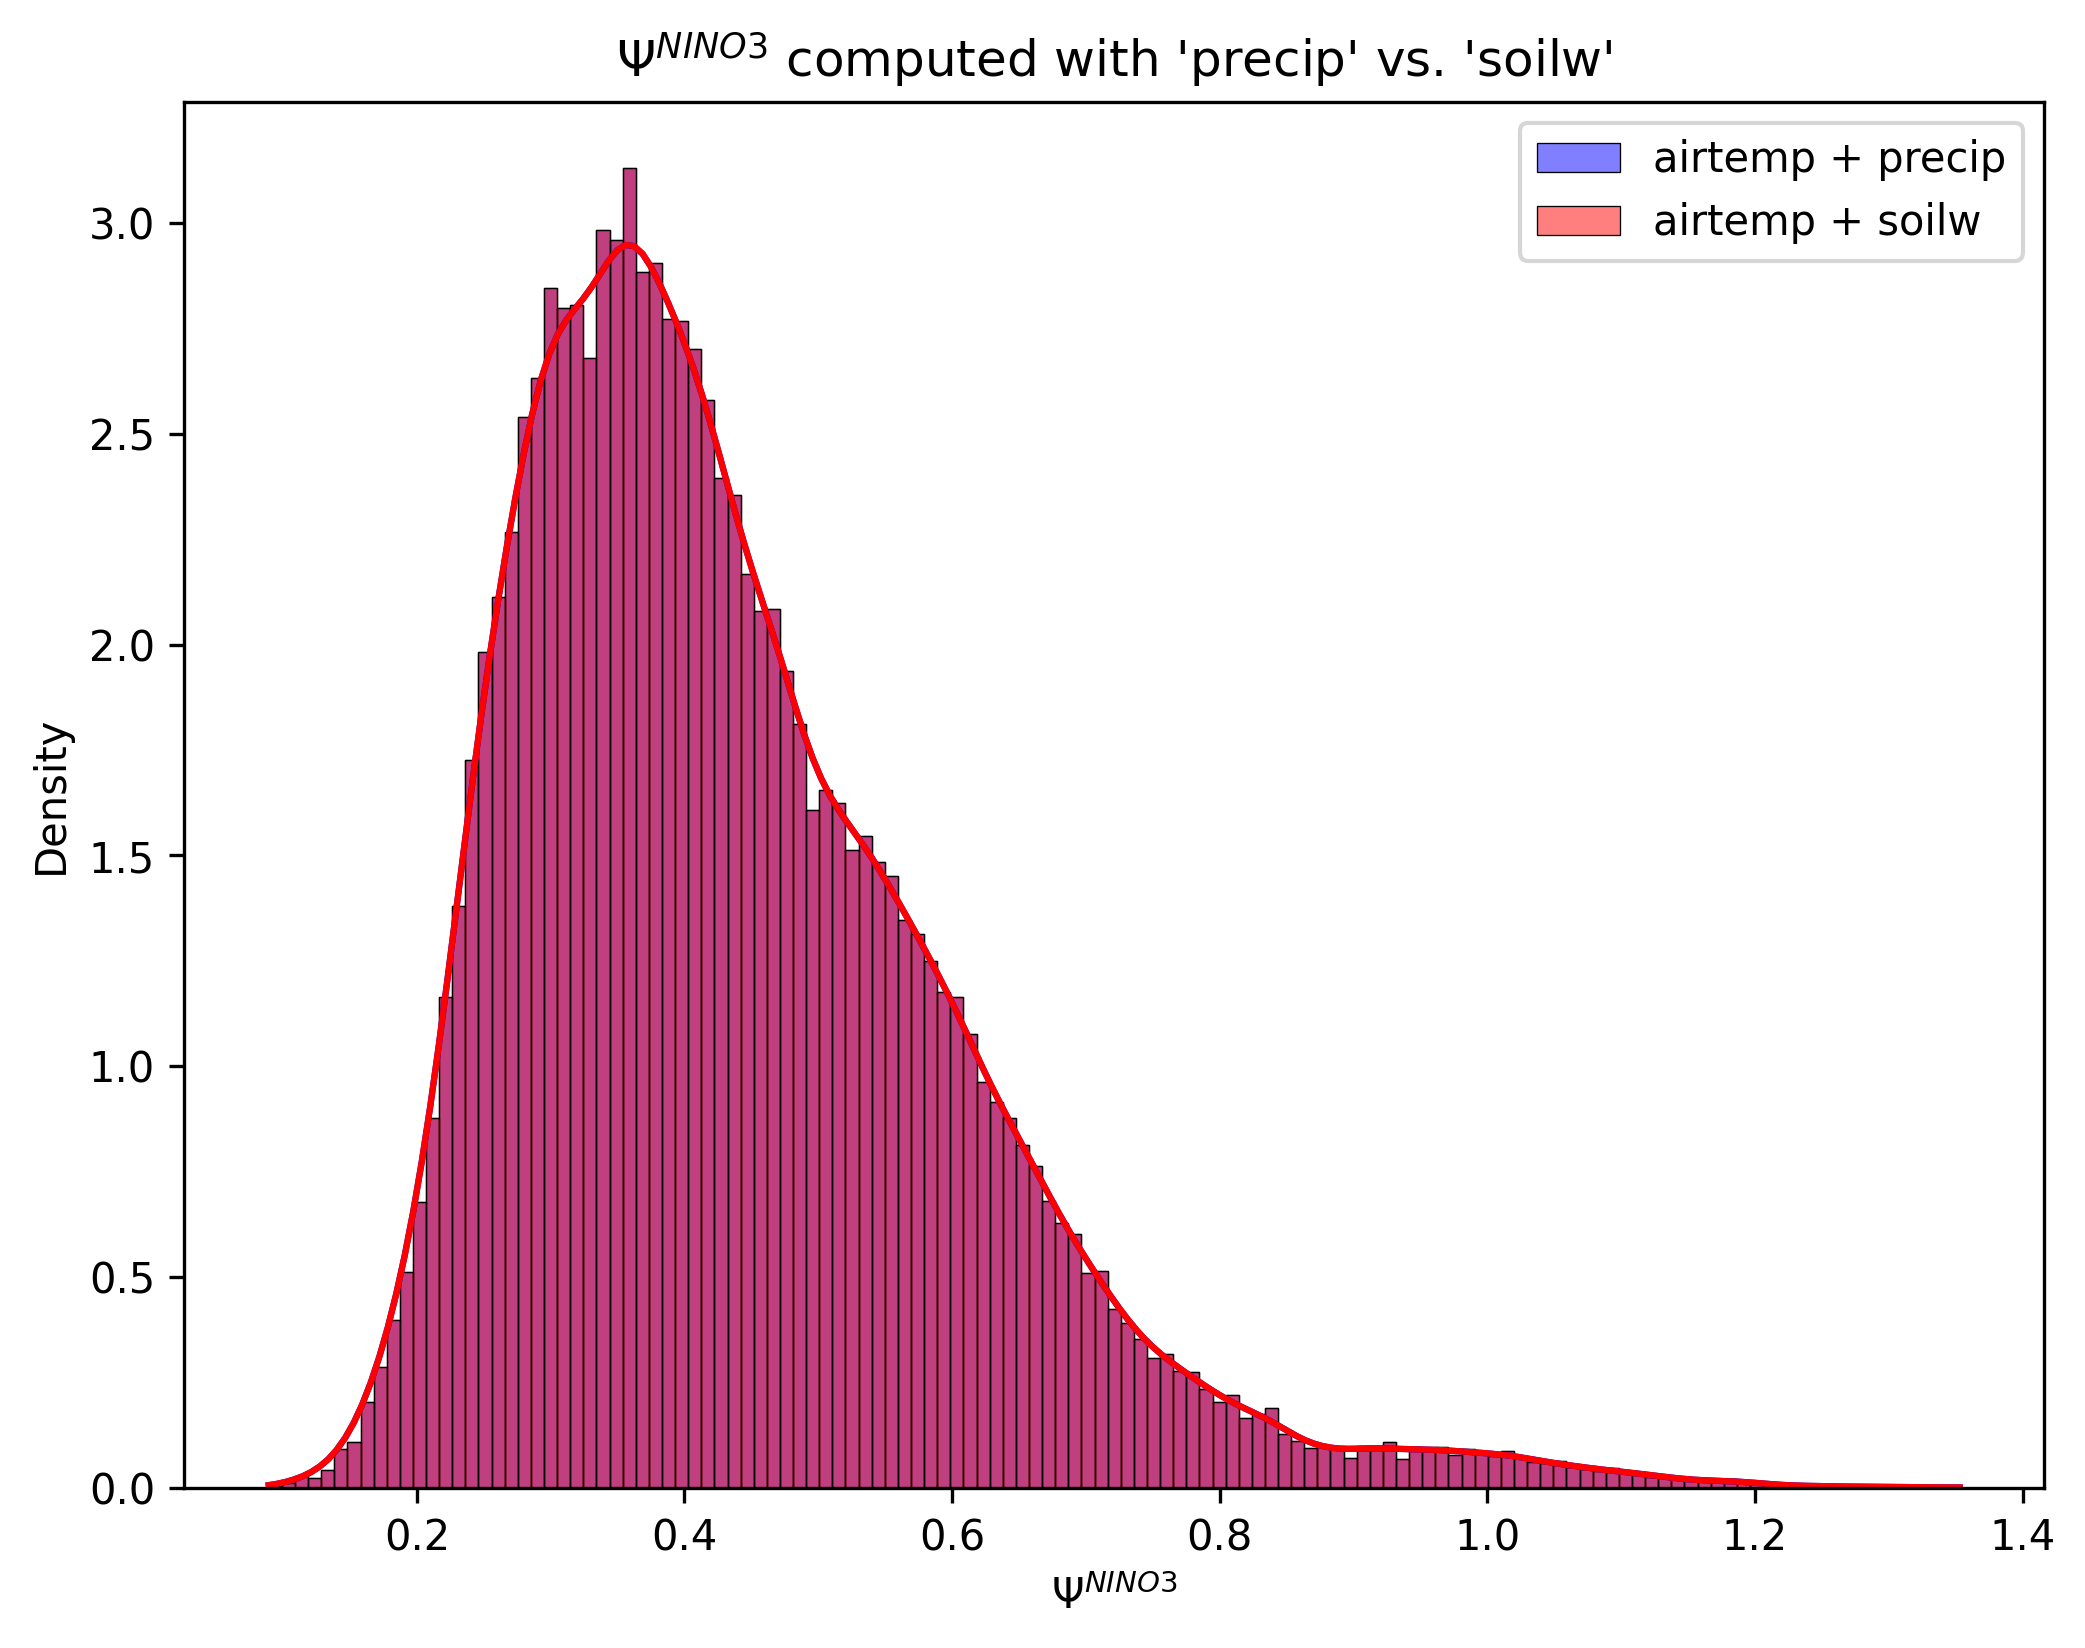
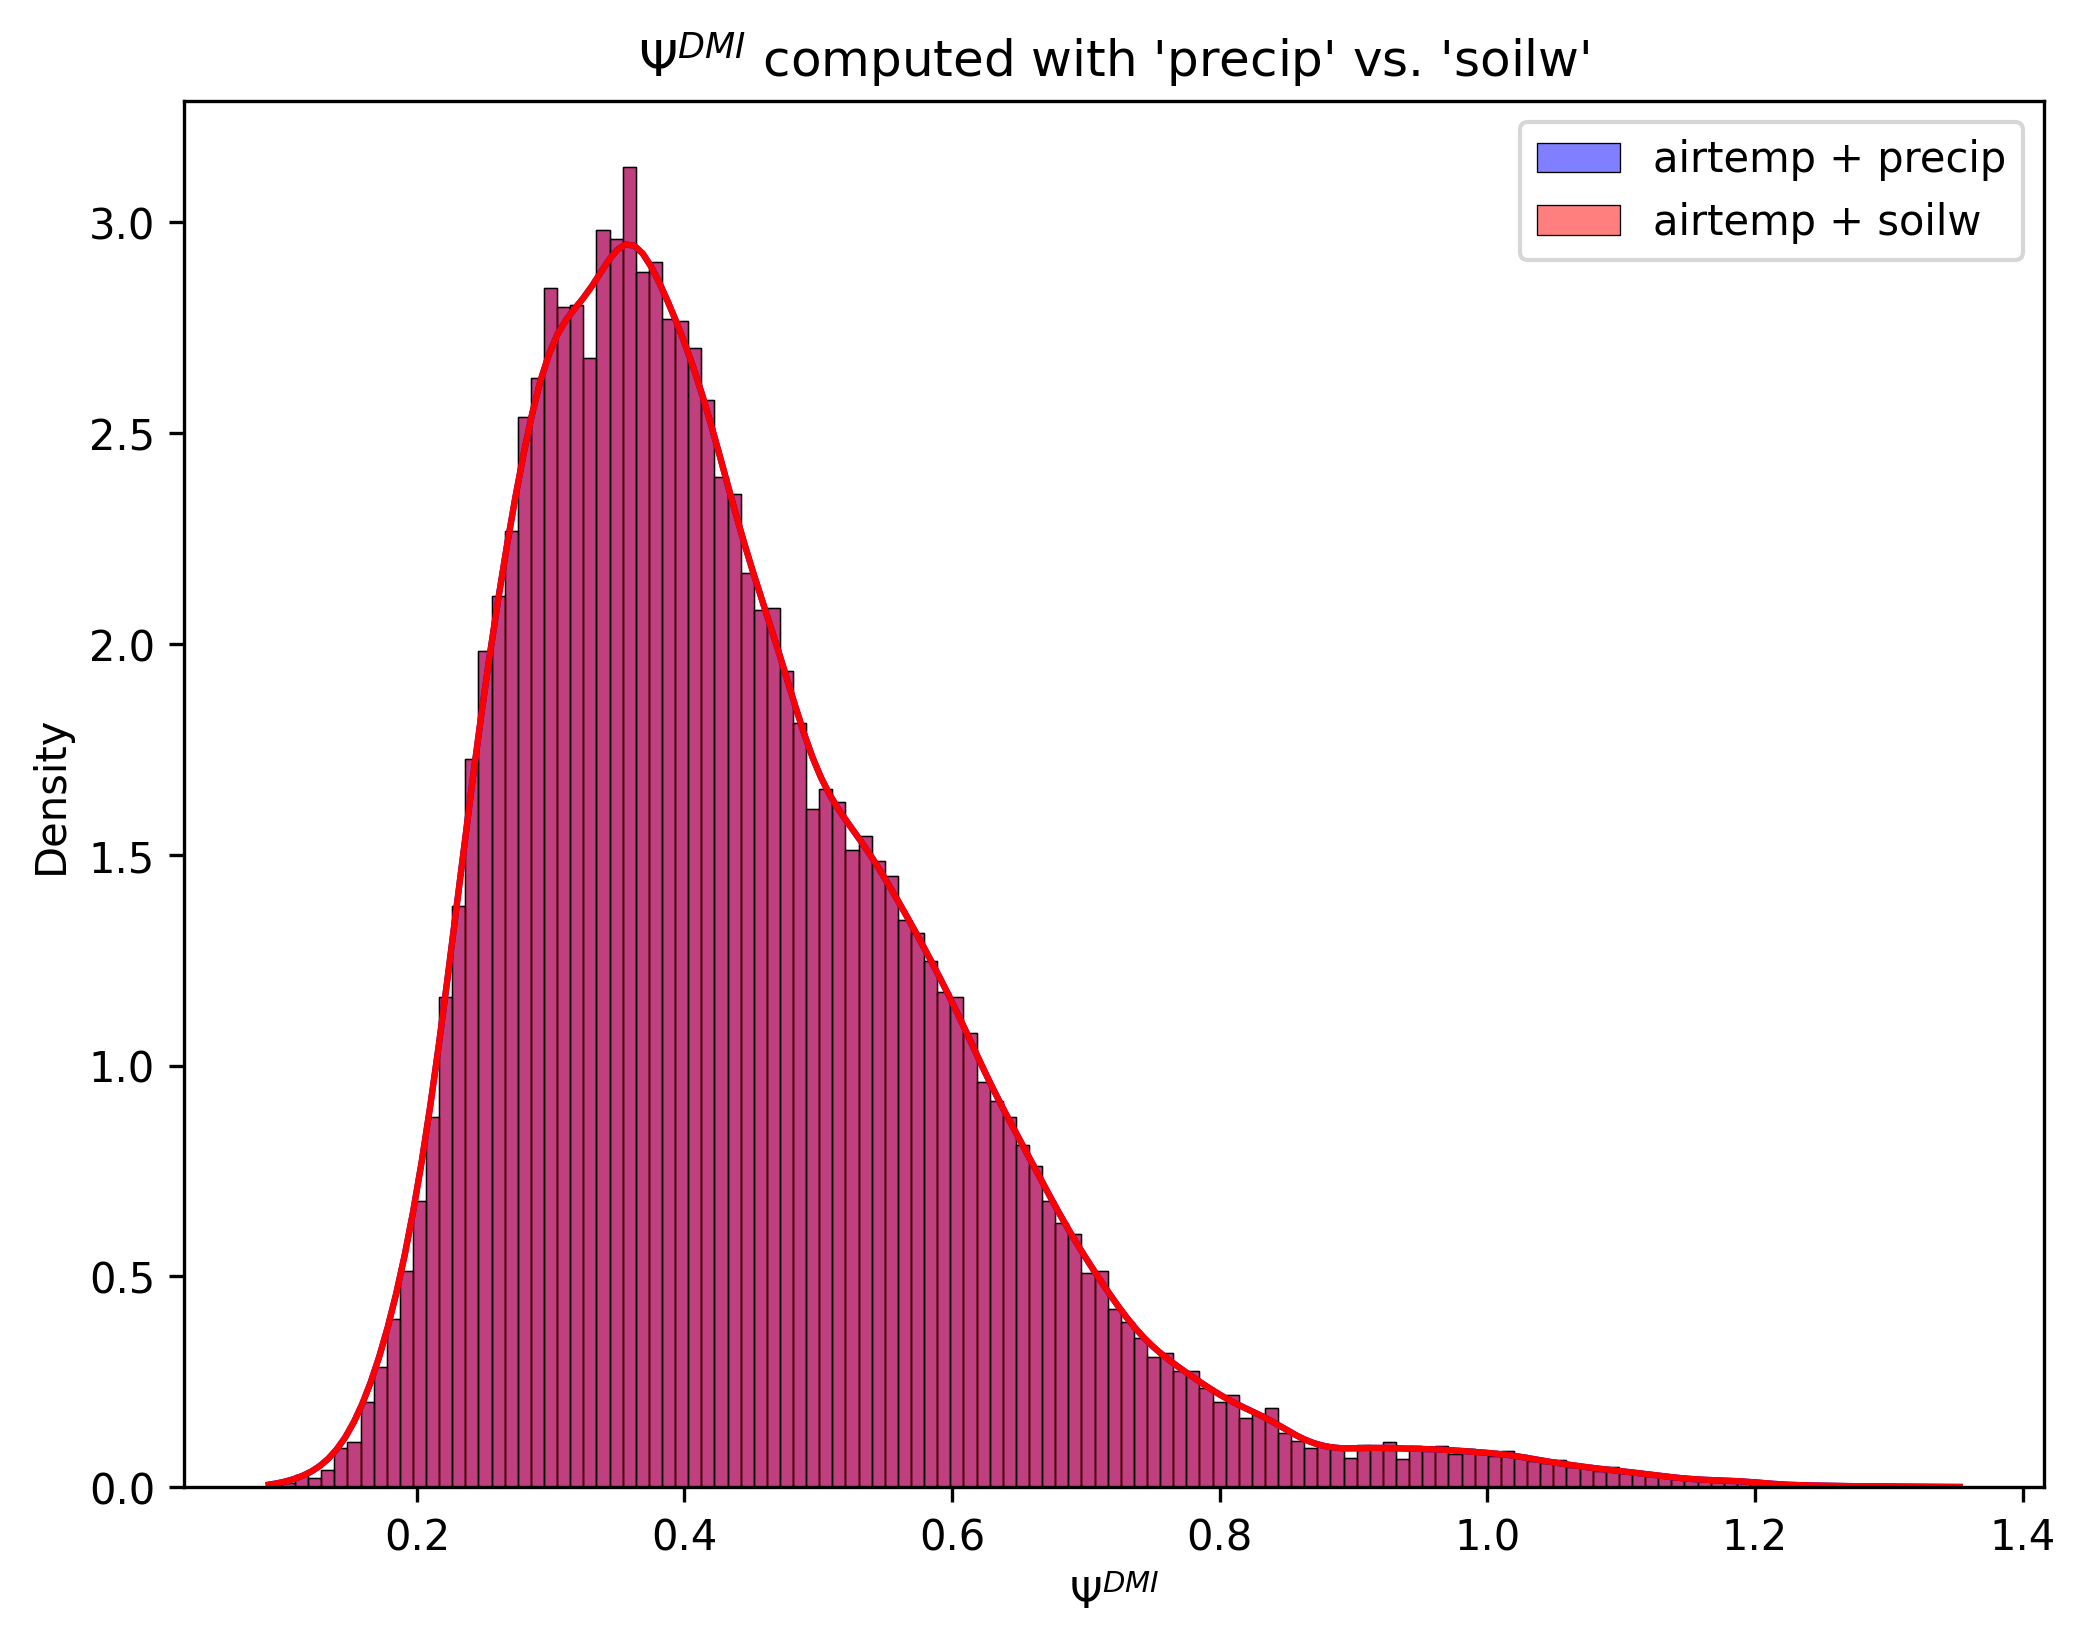
.

Changed region(s): [[0.2806, 0.0, 0.7794, 0.0619], [0.4988, 0.929, 0.5612, 0.9909], [0.7482, 0.1239, 0.7794, 0.1548]]

diff --git a/misc_plot_code/plot_type_A.py b/misc_plot_code/plot_type_A.py
@@ -55,8 +55,8 @@ sns.histplot(vals1, color='blue', label='airtemp + precip', kde=True, stat="dens
 sns.histplot(vals2, color='red', label='airtemp + soilw', kde=True, stat="density", bins=int(len(vals2)/2000), alpha=0.5)
 
 plt.legend()
-plt.xlabel(r'$\Psi^{NINO3}$')
-plt.title(r"$\Psi^{NINO3}$ computed with 'precip' vs. 'soilw'")
+plt.xlabel(r'$\Psi^{DMI}$')
+plt.title(r"$\Psi^{DMI}$ computed with 'precip' vs. 'soilw'")
 plt.savefig('plots/psi_DMI_histograms.png', dpi=300, bbox_inches='tight', pad_inches=0.1)
 plt.show()
 
